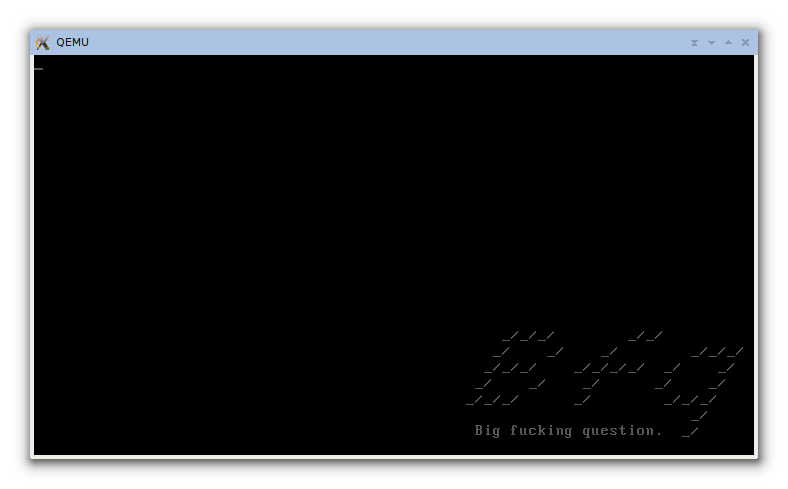
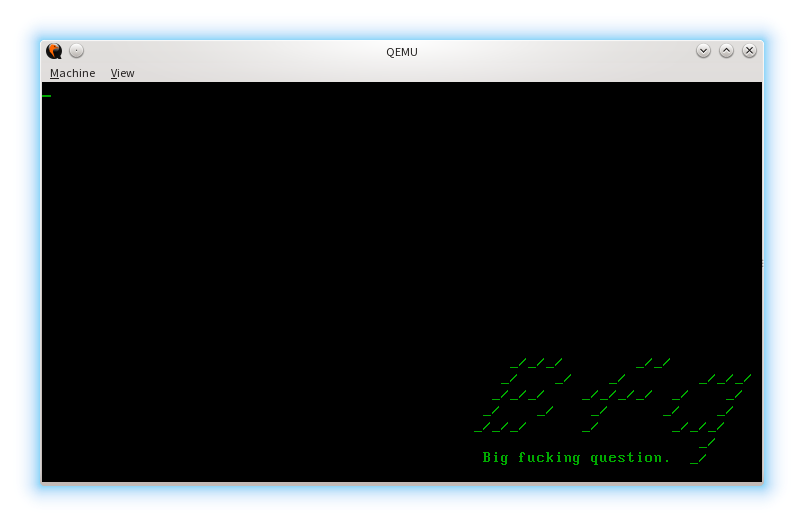
Removed BIOS interrupts

diff --git a/README.md b/README.md
@@ -1,5 +1,6 @@
 Bare-metal Hello World
 ======================
 Simple x86 Assembly (NASM) example explaining how to make bootable "Hello World".
+Rewritten to work without BIOS interrupts. Enjoy, or use earlier commit.
 
 ![Screenshot](https://bitbucket.org/licho/baremetal-hello-world/raw/default/screenshot.png)
